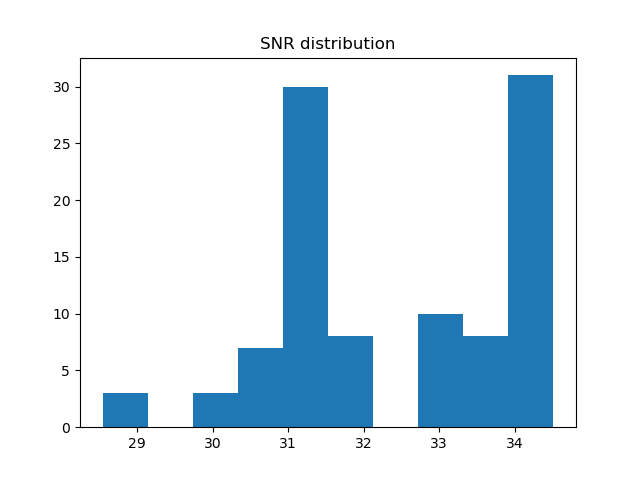
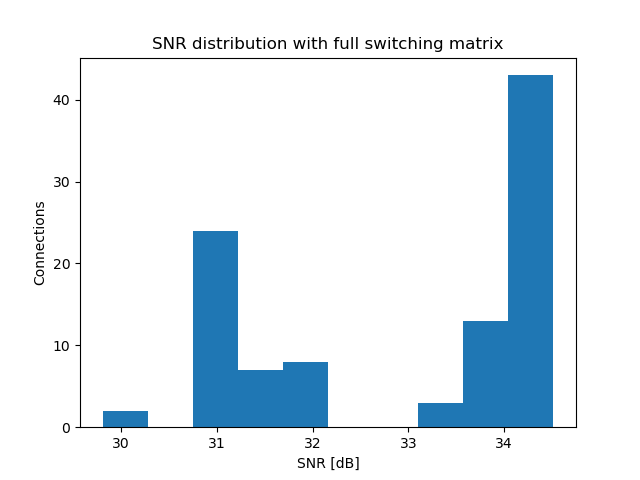
Update plots

diff --git a/Lab07/tasks/main.py b/Lab07/tasks/main.py
@@ -1,6 +1,5 @@
 from Lab07.core.Info.SignalInformation import SignalInformation
-
-from Lab07.core.Elements.Network import Line, Network
+from Lab07.core.Elements.Network import Network
 from Lab07.core.Elements.Connection import Connection
 
 import pandas as pd
@@ -11,7 +10,7 @@ import random as rand
 
 if __name__ == '__main__':
 
-    network = Network('../resources/nodes_full.json') # '../resources/nodes_full.json', '../resources/nodes_not_full.json'
+    network = Network('../resources/nodes_not_full.json') # '../resources/nodes_full.json'
     network.connect()
     node_labels = network.nodes.keys()
     pairs = []
@@ -97,7 +96,9 @@ if __name__ == '__main__':
     snr_connections = [c.snr for c in connections]
     plt.figure()
     plt.hist(snr_connections, label='Snr distribution')
-    plt.title('SNR distribution')
+    plt.title('SNR distribution with not full switching matrix')
+    plt.xlabel('SNR [dB]')
+    plt.ylabel('Connections')
     plt.show()
 
     for i in range(0, 100):
